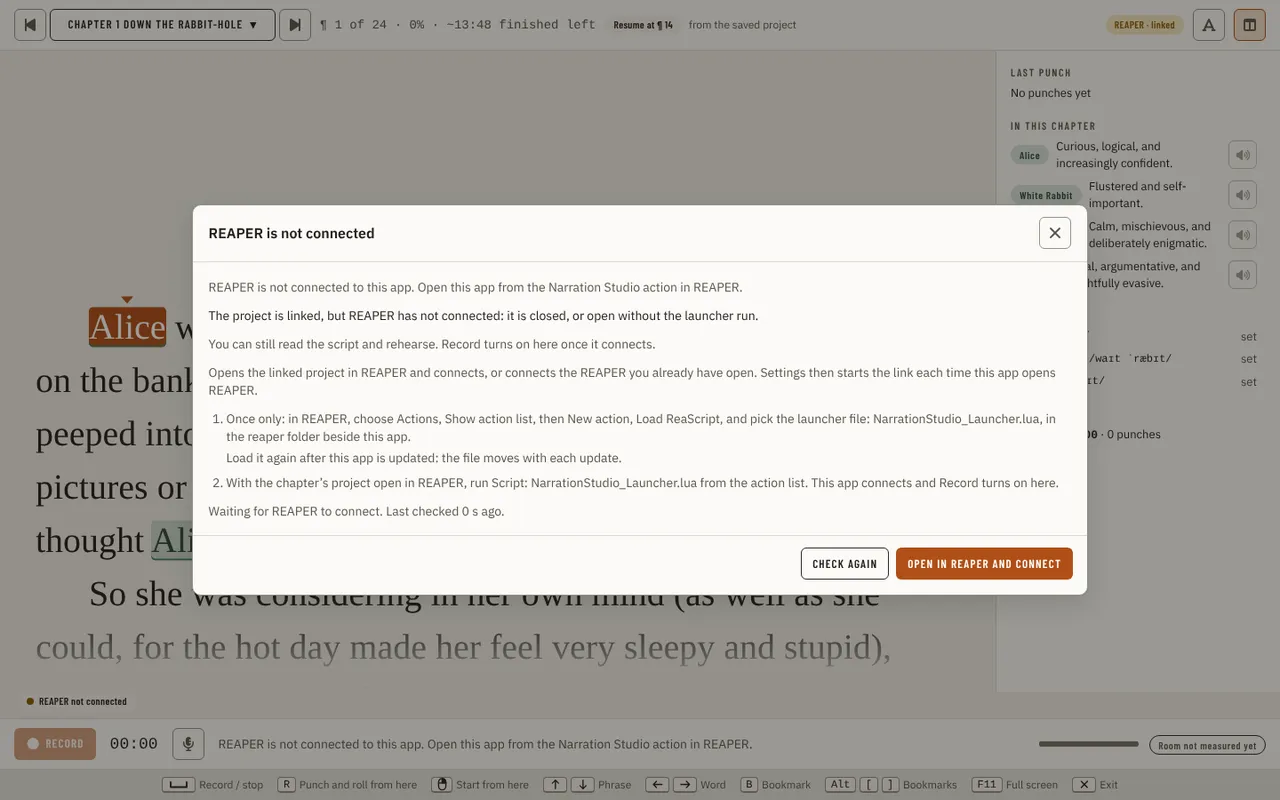
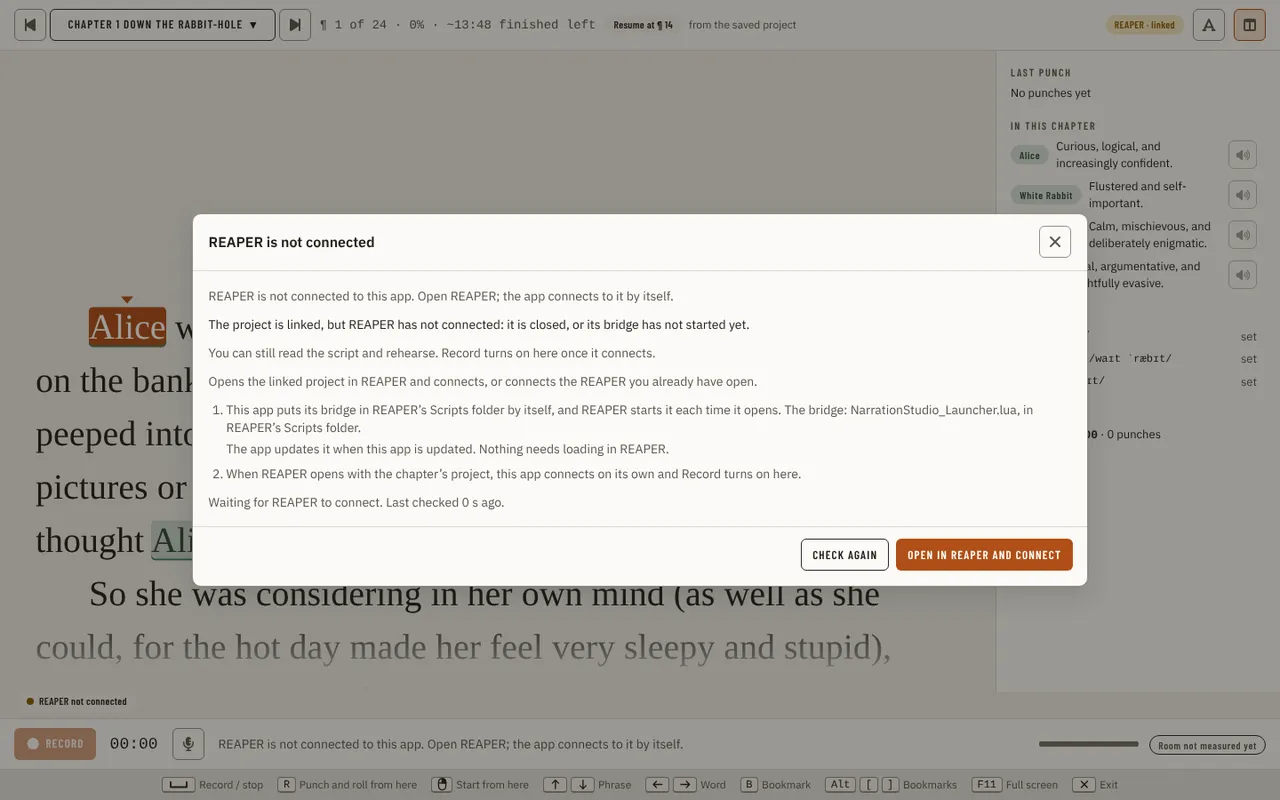
fix(ui): the not-connected dialog no longer asks for a launcher run
#2258 installs the bridge and REAPER starts it, so a linked REAPER that has
not connected is closed or its bridge has not started yet; the app opening
REAPER (state starting) says it waits for the bridge. Booth connect images
re-shot.

Claude-Session: https://claude.ai/code/session_01PM9JSLahAVLZRuK1YMqJaS

diff --git a/apps/ui/src/components/connection/ConnectionResolveDialog.stories.tsx b/apps/ui/src/components/connection/ConnectionResolveDialog.stories.tsx
@@ -84,12 +84,12 @@ type Story = StoryObj<typeof meta>;
 
 const dialog = () => screen.findByRole('dialog');
 
-/** REAPER is closed, or open without the launcher: the project is linked, so Start opens it and connects. */
+/** REAPER is closed, or its bridge has not started: the project is linked, so Start opens it and connects. */
 export const NotConnected: Story = {
   play: async () => {
     const open = await dialog();
     await expect(within(open).getByText('REAPER is not connected')).toBeVisible();
-    await expect(await within(open).findByText(/closed, or open without the launcher run/)).toBeVisible();
+    await expect(await within(open).findByText(/closed, or its bridge has not started yet/)).toBeVisible();
     await expect(within(open).getByText(/Last checked \d+ s ago/)).toBeVisible();
     await userEvent.click(within(open).getByRole('button', { name: 'Close' }));
     await expect(off.onClose).toHaveBeenCalledOnce();

diff --git a/apps/ui/src/components/connection/ReaperOffDialog.tsx b/apps/ui/src/components/connection/ReaperOffDialog.tsx
@@ -11,7 +11,9 @@ import { useReaperLaunch } from './useReaperLaunch';
 function choiceSentence(choice: DawChoice | null | undefined, name: string): string | null {
   switch (choice?.state) {
     case 'linked':
-      return `The project is linked, but ${name} has not connected: it is closed, or open without the launcher run.`;
+      return `The project is linked, but ${name} has not connected: it is closed, or its bridge has not started yet.`;
+    case 'starting':
+      return `This app opened ${name} on the linked project and is waiting for its bridge to answer.`;
     case 'not_running':
       return `${name} connected before and has stopped answering.`;
     case 'not_linked':
